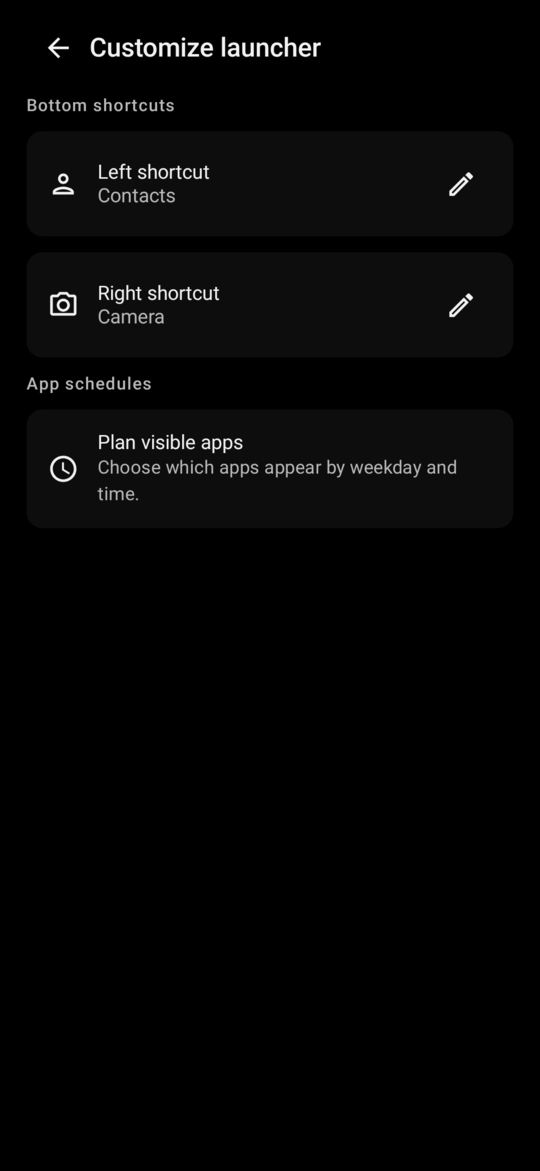
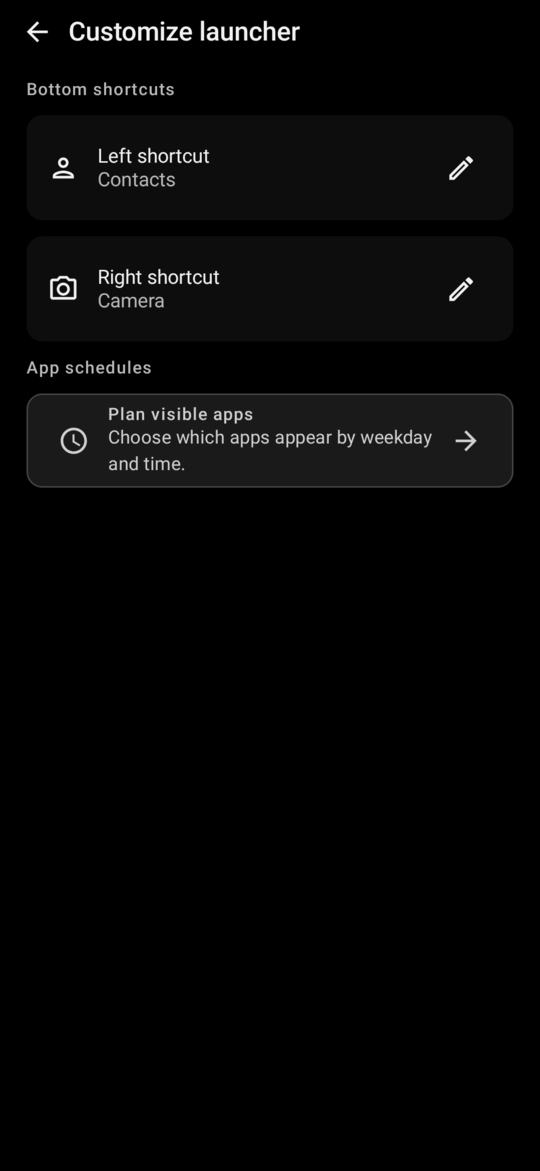
feat: enhance customization screen layout and add scheduling button

diff --git a/app/src/main/java/com/tomasrepcik/voidlauncher/ui/customization/CustomizationScreen.kt b/app/src/main/java/com/tomasrepcik/voidlauncher/ui/customization/CustomizationScreen.kt
@@ -6,18 +6,21 @@ import androidx.compose.foundation.layout.Column
 import androidx.compose.foundation.layout.Row
 import androidx.compose.foundation.layout.fillMaxSize
 import androidx.compose.foundation.layout.fillMaxWidth
+import androidx.compose.foundation.layout.navigationBarsPadding
 import androidx.compose.foundation.layout.padding
 import androidx.compose.foundation.layout.size
-import androidx.compose.foundation.layout.systemBarsPadding
+import androidx.compose.foundation.layout.statusBarsPadding
 import androidx.compose.foundation.lazy.LazyColumn
 import androidx.compose.foundation.lazy.items
 import androidx.compose.foundation.shape.RoundedCornerShape
 import androidx.compose.material.icons.Icons
 import androidx.compose.material.icons.automirrored.outlined.ArrowBack
+import androidx.compose.material.icons.automirrored.outlined.ArrowForward
 import androidx.compose.material.icons.outlined.Edit
 import androidx.compose.material.icons.outlined.Person
 import androidx.compose.material.icons.outlined.PhotoCamera
 import androidx.compose.material.icons.outlined.Schedule
+import androidx.compose.material3.ButtonDefaults
 import androidx.compose.material3.ElevatedCard
 import androidx.compose.material3.Icon
 import androidx.compose.material3.IconButton
@@ -54,82 +57,80 @@ fun CustomizationScreen(
             modifier = Modifier.fillMaxSize(),
             actions = SwipeNavigationActions(onClose = onBack),
         ) {
-            LazyColumn(
-                modifier = Modifier
-                    .fillMaxSize()
-                    .systemBarsPadding()
-                    .padding(horizontal = 20.dp, vertical = 12.dp)
-                    .testTag("customization_root"),
-                verticalArrangement = Arrangement.spacedBy(12.dp),
-            ) {
-                item {
-                    Row(
-                        modifier = Modifier.fillMaxWidth(),
-                        verticalAlignment = Alignment.CenterVertically,
-                    ) {
-                        IconButton(onClick = onBack) {
-                            Icon(
-                                imageVector = Icons.AutoMirrored.Outlined.ArrowBack,
-                                contentDescription = stringResource(R.string.back),
-                            )
-                        }
+            Column(modifier = Modifier.fillMaxSize()) {
+                CustomizationHeader(
+                    title = stringResource(R.string.customize_launcher),
+                    onBack = onBack,
+                )
+                LazyColumn(
+                    modifier = Modifier
+                        .weight(1f)
+                        .navigationBarsPadding()
+                        .padding(horizontal = 20.dp, vertical = 12.dp)
+                        .testTag("customization_root"),
+                    verticalArrangement = Arrangement.spacedBy(12.dp),
+                ) {
+                    item {
                         Text(
-                            text = stringResource(R.string.customize_launcher),
-                            style = MaterialTheme.typography.headlineLarge,
+                            text = stringResource(R.string.bottom_shortcuts),
+                            style = MaterialTheme.typography.titleMedium,
+                            color = MaterialTheme.colorScheme.secondary,
                         )
                     }
-                }
 
-                item {
-                    Text(
-                        text = stringResource(R.string.bottom_shortcuts),
-                        style = MaterialTheme.typography.titleMedium,
-                        color = MaterialTheme.colorScheme.secondary,
-                    )
-                }
+                    items(
+                        items = state.shortcuts,
+                        key = { it.slot.name }
+                    ) { shortcut ->
+                        ShortcutEditorRow(
+                            shortcut = shortcut,
+                            onEdit = { onEditShortcut(shortcut.slot) },
+                        )
+                    }
 
-                items(
-                    items = state.shortcuts,
-                    key = { it.slot.name }
-                ) { shortcut ->
-                    ShortcutEditorRow(
-                        shortcut = shortcut,
-                        onEdit = { onEditShortcut(shortcut.slot) },
-                    )
-                }
+                    item {
+                        Text(
+                            text = stringResource(R.string.app_schedules),
+                            style = MaterialTheme.typography.titleMedium,
+                            color = MaterialTheme.colorScheme.secondary,
+                        )
+                    }
 
-                item {
-                    Text(
-                        text = stringResource(R.string.app_schedules),
-                        style = MaterialTheme.typography.titleMedium,
-                        color = MaterialTheme.colorScheme.secondary,
-                    )
-                }
-
-                item {
-                    ElevatedCard(onClick = onOpenSchedules) {
-                        Row(
+                    item {
+                        OutlinedButton(
+                            onClick = onOpenSchedules,
                             modifier = Modifier
                                 .fillMaxWidth()
-                                .padding(16.dp),
-                            verticalAlignment = Alignment.CenterVertically,
-                            horizontalArrangement = Arrangement.spacedBy(14.dp),
+                                .testTag("open_schedules_button"),
+                            shape = MaterialTheme.shapes.medium,
+                            colors = ButtonDefaults.outlinedButtonColors(
+                                containerColor = MaterialTheme.colorScheme.surfaceVariant,
+                                contentColor = MaterialTheme.colorScheme.onSurfaceVariant,
+                            ),
                         ) {
                             Icon(
                                 imageVector = Icons.Outlined.Schedule,
                                 contentDescription = null,
                             )
-                            Column(modifier = Modifier.weight(1f)) {
+                            Column(
+                                modifier = Modifier
+                                    .weight(1f)
+                                    .padding(horizontal = 14.dp),
+                            ) {
                                 Text(
                                     text = stringResource(R.string.plan_visible_apps),
-                                    style = MaterialTheme.typography.bodyLarge,
+                                    style = MaterialTheme.typography.titleMedium,
                                 )
                                 Text(
                                     text = stringResource(R.string.plan_visible_apps_summary),
                                     style = MaterialTheme.typography.bodyMedium,
-                                    color = MaterialTheme.colorScheme.secondary,
+                                    color = MaterialTheme.colorScheme.onSurfaceVariant,
                                 )
                             }
+                            Icon(
+                                imageVector = Icons.AutoMirrored.Outlined.ArrowForward,
+                                contentDescription = null,
+                            )
                         }
                     }
                 }
@@ -149,90 +150,103 @@ fun ShortcutPickerScreen(
             modifier = Modifier.fillMaxSize(),
             actions = SwipeNavigationActions(onClose = actions.onBack),
         ) {
-            LazyColumn(
-                modifier = Modifier
-                    .fillMaxSize()
-                    .systemBarsPadding()
-                    .padding(horizontal = 20.dp, vertical = 12.dp),
-                verticalArrangement = Arrangement.spacedBy(10.dp),
-            ) {
-                item {
-                    Row(
-                        modifier = Modifier.fillMaxWidth(),
-                        verticalAlignment = Alignment.CenterVertically,
-                    ) {
-                        IconButton(onClick = actions.onBack) {
-                            Icon(
-                                imageVector = Icons.AutoMirrored.Outlined.ArrowBack,
-                                contentDescription = stringResource(R.string.back),
-                            )
-                        }
+            Column(modifier = Modifier.fillMaxSize()) {
+                CustomizationHeader(
+                    title = stringResource(R.string.pick_shortcut_title, slot.displayName()),
+                    onBack = actions.onBack,
+                )
+                LazyColumn(
+                    modifier = Modifier
+                        .weight(1f)
+                        .navigationBarsPadding()
+                        .padding(horizontal = 20.dp, vertical = 12.dp),
+                    verticalArrangement = Arrangement.spacedBy(10.dp),
+                ) {
+                    item {
                         Text(
-                            text = stringResource(
-                                R.string.pick_shortcut_title,
-                                slot.displayName()
-                            ),
-                            style = MaterialTheme.typography.headlineLarge,
+                            text = stringResource(R.string.system_shortcuts),
+                            style = MaterialTheme.typography.titleMedium,
+                            color = MaterialTheme.colorScheme.secondary,
+                        )
+                    }
+
+                    item {
+                        Row(
+                            modifier = Modifier.fillMaxWidth(),
+                            horizontalArrangement = Arrangement.spacedBy(10.dp),
+                        ) {
+                            OutlinedButton(onClick = actions.onContactsSelected) {
+                                Text(stringResource(R.string.contacts))
+                            }
+                            OutlinedButton(onClick = actions.onCameraSelected) {
+                                Text(stringResource(R.string.camera))
+                            }
+                        }
+                    }
+
+                    item {
+                        Text(
+                            text = stringResource(R.string.apps),
+                            style = MaterialTheme.typography.titleMedium,
+                            color = MaterialTheme.colorScheme.secondary,
+                        )
+                    }
+
+                    item {
+                        LauncherSearchField(
+                            value = state.query,
+                            onValueChange = actions.onQueryChange,
+                            modifier = Modifier.fillMaxWidth(),
+                            placeholderText = stringResource(R.string.filter_apps),
+                        )
+                    }
+
+                    if (state.isLoading && state.apps.isEmpty()) {
+                        item {
+                            LinearProgressIndicator(modifier = Modifier.fillMaxWidth())
+                        }
+                    }
+
+                    items(
+                        items = state.apps,
+                        key = { "${it.key.packageName}:${it.key.activityName}" }
+                    ) { app ->
+                        ShortcutAppRow(
+                            app = app,
+                            onSelect = { actions.onAppSelected(app) },
                         )
                     }
                 }
-
-                item {
-                    Text(
-                        text = stringResource(R.string.system_shortcuts),
-                        style = MaterialTheme.typography.titleMedium,
-                        color = MaterialTheme.colorScheme.secondary,
-                    )
-                }
-
-                item {
-                    Row(
-                        modifier = Modifier.fillMaxWidth(),
-                        horizontalArrangement = Arrangement.spacedBy(10.dp),
-                    ) {
-                        OutlinedButton(onClick = actions.onContactsSelected) {
-                            Text(stringResource(R.string.contacts))
-                        }
-                        OutlinedButton(onClick = actions.onCameraSelected) {
-                            Text(stringResource(R.string.camera))
-                        }
-                    }
-                }
-
-                item {
-                    Text(
-                        text = stringResource(R.string.apps),
-                        style = MaterialTheme.typography.titleMedium,
-                        color = MaterialTheme.colorScheme.secondary,
-                    )
-                }
-
-                item {
-                    LauncherSearchField(
-                        value = state.query,
-                        onValueChange = actions.onQueryChange,
-                        modifier = Modifier.fillMaxWidth(),
-                        placeholderText = stringResource(R.string.filter_apps),
-                    )
-                }
-
-                if (state.isLoading && state.apps.isEmpty()) {
-                    item {
-                        LinearProgressIndicator(modifier = Modifier.fillMaxWidth())
-                    }
-                }
-
-                items(
-                    items = state.apps,
-                    key = { "${it.key.packageName}:${it.key.activityName}" }
-                ) { app ->
-                    ShortcutAppRow(
-                        app = app,
-                        onSelect = { actions.onAppSelected(app) },
-                    )
-                }
             }
         }
+    }
+}
+
+@Composable
+private fun CustomizationHeader(
+    title: String,
+    onBack: () -> Unit,
+) {
+    Row(
+        modifier = Modifier
+            .fillMaxWidth()
+            .statusBarsPadding()
+            .padding(start = 4.dp, end = 20.dp),
+        verticalAlignment = Alignment.CenterVertically,
+    ) {
+        IconButton(
+            onClick = onBack,
+            modifier = Modifier.testTag("customization_back_button"),
+        ) {
+            Icon(
+                imageVector = Icons.AutoMirrored.Outlined.ArrowBack,
+                contentDescription = stringResource(R.string.back),
+            )
+        }
+        Text(
+            text = title,
+            style = MaterialTheme.typography.headlineLarge,
+        )
     }
 }
 

diff --git a/app/src/androidTest/java/com/tomasrepcik/voidlauncher/ui/CustomizationScreenRobotTest.kt b/app/src/androidTest/java/com/tomasrepcik/voidlauncher/ui/CustomizationScreenRobotTest.kt
@@ -1,0 +1,45 @@
+package com.tomasrepcik.voidlauncher.ui
+
+import androidx.compose.ui.test.assertHasClickAction
+import androidx.compose.ui.test.assertIsDisplayed
+import androidx.compose.ui.test.junit4.createComposeRule
+import androidx.compose.ui.test.onNodeWithTag
+import androidx.compose.ui.test.performClick
+import com.tomasrepcik.voidlauncher.ui.customization.CustomizationScreen
+import com.tomasrepcik.voidlauncher.ui.customization.CustomizationUiState
+import com.tomasrepcik.voidlauncher.ui.theme.VoidLauncherTheme
+import org.junit.Assert.assertEquals
+import org.junit.Rule
+import org.junit.Test
+
+class CustomizationScreenRobotTest {
+    @get:Rule
+    val composeRule = createComposeRule()
+
+    @Test
+    fun settingsExposeSchedulingAsAButtonAndKeepBackNavigationClickable() {
+        var backRequests = 0
+        var scheduleRequests = 0
+        composeRule.setContent {
+            VoidLauncherTheme {
+                CustomizationScreen(
+                    state = CustomizationUiState(),
+                    onBack = { backRequests += 1 },
+                    onEditShortcut = {},
+                    onOpenSchedules = { scheduleRequests += 1 },
+                )
+            }
+        }
+
+        composeRule.onNodeWithTag("customization_back_button")
+            .assertIsDisplayed()
+            .performClick()
+        composeRule.onNodeWithTag("open_schedules_button")
+            .assertIsDisplayed()
+            .assertHasClickAction()
+            .performClick()
+
+        assertEquals(1, backRequests)
+        assertEquals(1, scheduleRequests)
+    }
+}
